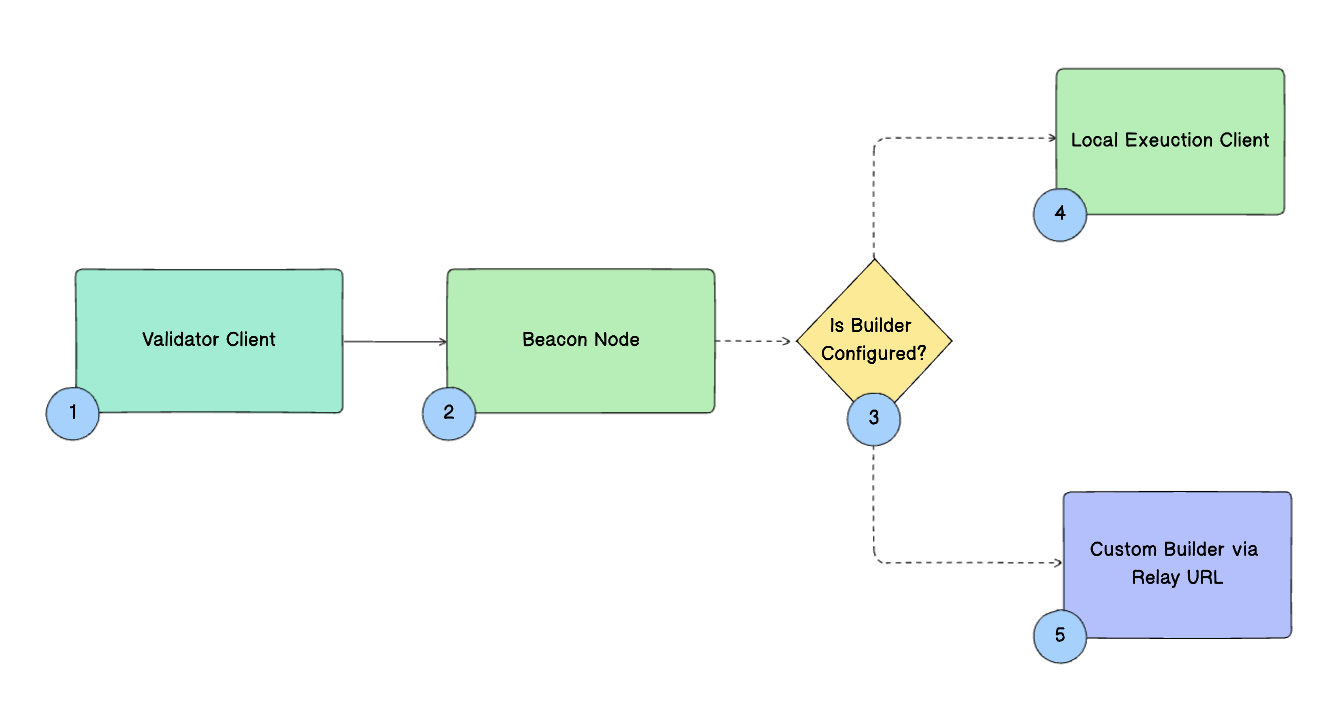
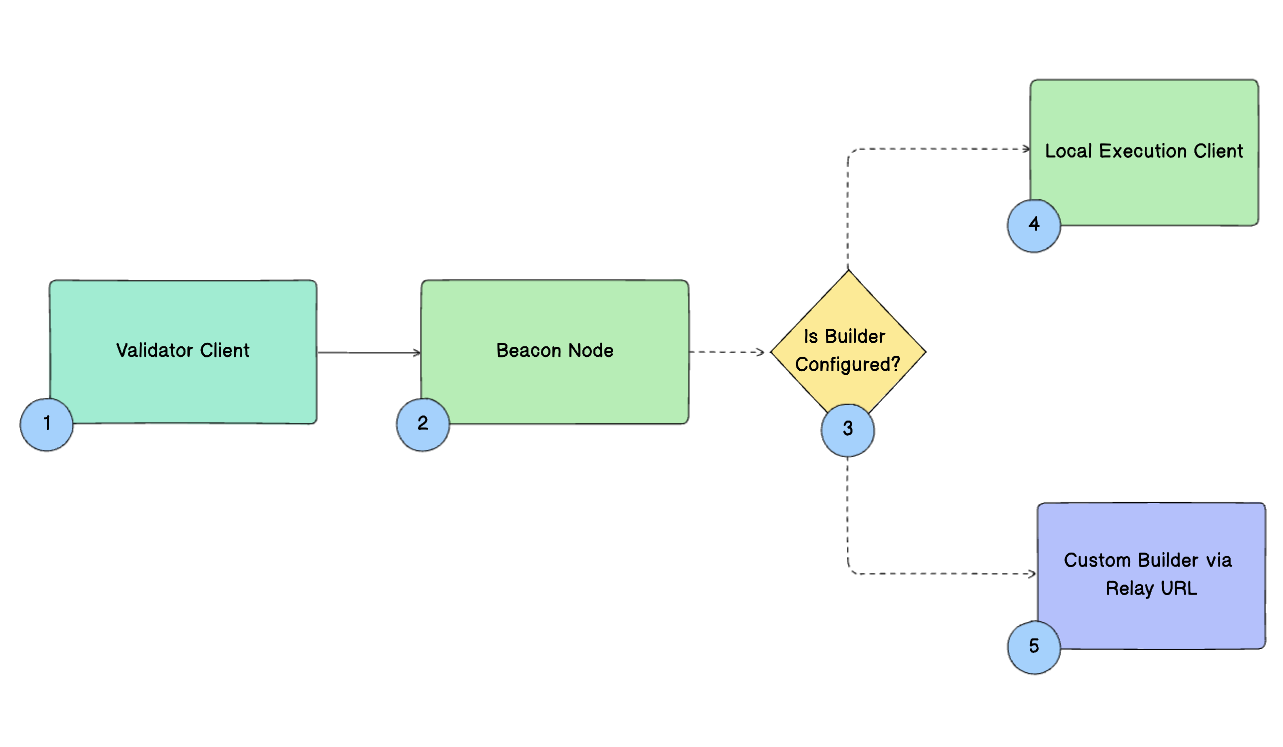
update sections

diff --git a/website/docs/advanced/builder.md b/website/docs/advanced/builder.md
@@ -19,7 +19,8 @@ Censorship
 :::
 
 ## Builder Configuration
-<img style={{maxWidth: 600 + 'px'}} src={BuilderPng} /> 
+
+<img style={{maxWidth: 800 + 'px'}} src={BuilderPng} /> 
 
 <Tabs
   groupId="configure-builder"
@@ -30,10 +31,30 @@ Censorship
   ]
 }>
 <TabItem value="add">
-test
+
+## 1. Validator Client
+
+## 2. Beacon Node
+
+## 3. Is Builder Configured?
+
+## 4. Local Execution Client
+
+## 5. Custom Builder via Relay URL
+
 </TabItem>
 <TabItem value="remove">
-test
+
+## 1. Validator Client
+
+## 2. Beacon Node
+
+## 3. Is Builder Configured?
+
+## 4. Local Execution Client
+
+## 5. Custom Builder via Relay URL
+
 </TabItem>
 </Tabs>
 
